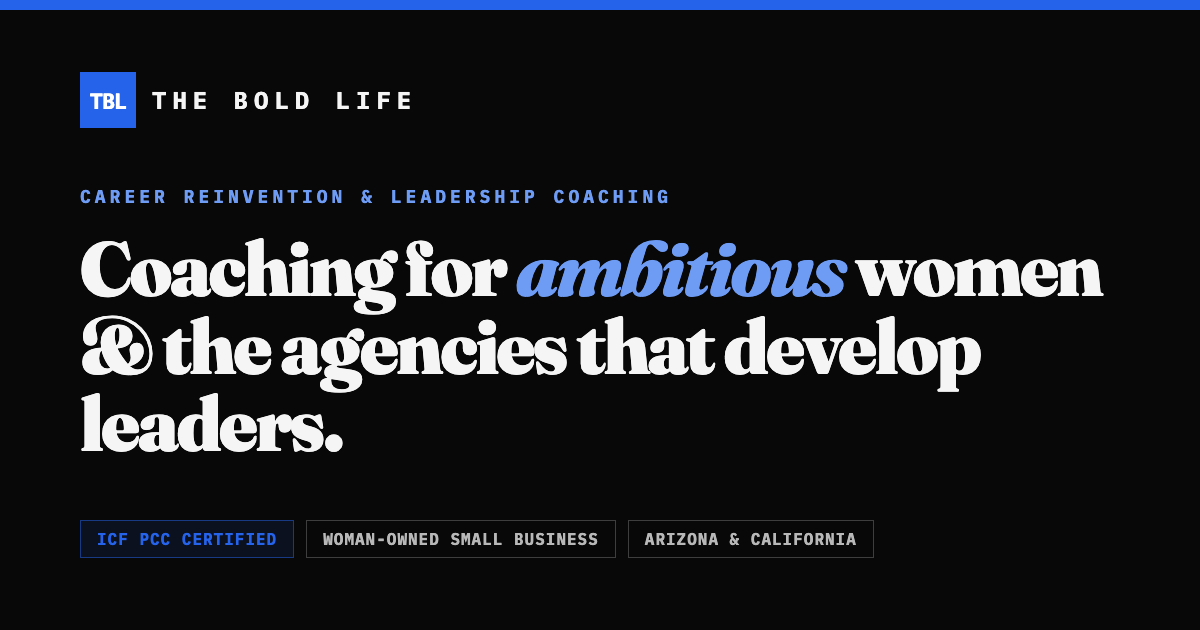
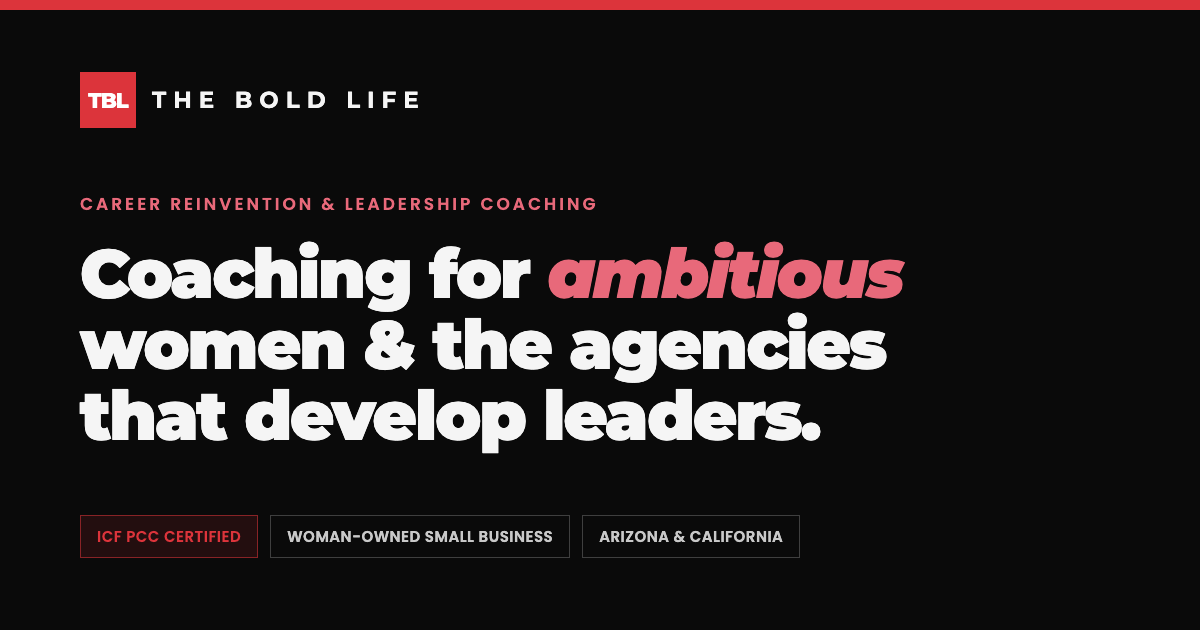
Re-skin to The Bold Life's own brand: burgundy + black, not HumanData blue
The HumanData DS was for the pitch; the product is an extension of The Bold
Life business, so the identity must be hers. Keep the DS v4 component
architecture as structural scaffold only, and add a brand-token layer that
overrides every colour and font:

- Accent #2563EB (blue) -> #DC343B (her brand red / "burgundy"); hover #B7272E.
- Fonts Fraunces/IBM Plex Sans -> Montserrat (display) + Poppins (body),
  matching theboldlife.coach. IBM Plex Mono kept for small technical labels.
- Section data-tint family re-hued to warm burgundy -> wine -> rose; no blue,
  green, or cyan.
- theme-color, favicon, and the 1200x630 og card regenerated in red/black.

Also: make the scroll-reveal robust for deep links (e.g. /#government) and
web-font reflow — re-sweep on load, on hashchange, and after settle — so a
section linked to directly no longer stays hidden until the user scrolls.

Brand source of truth: theboldlife.coach (#DC343B, #1A1A1A, Poppins,
Montserrat).

diff --git a/index.html b/index.html
@@ -23,10 +23,10 @@
 <meta name="twitter:image" content="https://theboldlifecoaching.com/img/og.png">
 <link rel="canonical" href="https://theboldlifecoaching.com/">
 <link rel="icon" type="image/svg+xml" href="/img/favicon.svg">
-<meta name="theme-color" content="#2563EB">
+<meta name="theme-color" content="#DC343B">
 <link rel="preconnect" href="https://fonts.googleapis.com">
 <link rel="preconnect" href="https://fonts.gstatic.com" crossorigin>
-<link href="https://fonts.googleapis.com/css2?family=Fraunces:ital,opsz,wght@0,9..144,600;0,9..144,800;0,9..144,900;1,9..144,700;1,9..144,800&family=IBM+Plex+Mono:wght@500;700&family=IBM+Plex+Sans:wght@400;500;600&display=swap" rel="stylesheet">
+<link href="https://fonts.googleapis.com/css2?family=Montserrat:ital,wght@0,600;0,700;0,800;0,900;1,700;1,900&family=Poppins:ital,wght@0,400;0,500;0,600;0,700;1,400;1,500&family=IBM+Plex+Mono:wght@500;700&display=swap" rel="stylesheet">
 <script type="application/ld+json">
 {"@context":"https://schema.org","@type":"ProfessionalService","name":"The Bold Life","description":"Leadership development and executive coaching for government agencies in Arizona and California, and 1:1 career-reinvention coaching for ambitious women. Woman-Owned Small Business led by an ICF Professional Certified Coach.","areaServed":["Arizona","California","United States"],"founder":{"@type":"Person","name":"Jamesyn Snitker","alternateName":"Jamie Snitker","jobTitle":"Executive &amp; Leadership Coach, ICF Professional Certified Coach (PCC)"},"knowsAbout":["Executive coaching","Leadership development","Career transition coaching","Women in leadership","Government workforce development","ICF coaching"],"url":"https://theboldlifecoaching.com/"}
 </script>
@@ -1519,7 +1519,33 @@ svg[data-pos="solo-c"] .vg-a,svg[data-pos="solo-c"] .vg-b{opacity:0;transform:sc
 @media(max-width:620px){.stick-txt{font-size:var(--text-sm);}}
 @media(max-width:460px){.stick-txt span{display:none;}}
 </style><style>
-/* ---- The Bold Life: page layout on top of HumanData DS v4 ---- */
+/* ===================================================================
+   THE BOLD LIFE — brand system. The HumanData DS v4 above is the
+   structural scaffold only; this layer makes the identity entirely hers:
+   burgundy (#DC343B) + black, Poppins + Montserrat, women-led. No blue.
+   These tokens override the DS defaults for this site; the DS block stays
+   verbatim so only the brand layer changes.
+   Source of truth: theboldlife.coach (brand red #DC343B, ink #1A1A1A,
+   Poppins body, Montserrat display). ================================= */
+:root{
+  --font:'Poppins',-apple-system,BlinkMacSystemFont,'Segoe UI',sans-serif;
+  --display:'Montserrat','Poppins',sans-serif;
+  --accent:#DC343B;--accent-hover:#B7272E;
+  --accent-lt:rgba(220,52,59,.15);--accent-dim:rgba(220,52,59,.08);--accent-text:#fff;
+  --bd-focus:rgba(220,52,59,.6);
+}
+@media (prefers-color-scheme: light){
+  :root:not([data-theme="dark"]){--bd-focus:rgba(220,52,59,.5);}
+}
+:root[data-theme="light"]{--bd-focus:rgba(220,52,59,.5);}
+/* Section tints — a warm burgundy -> wine -> rose family. Deliberately
+   no blue, green or cyan (those report state in the DS). */
+[data-tint="a"]{--tint:#DC343B;--tint-dim:rgba(220,52,59,.07);}
+[data-tint="b"]{--tint:#A3243A;--tint-dim:rgba(163,36,58,.08);}
+[data-tint="c"]{--tint:#6E1423;--tint-dim:rgba(110,20,35,.08);}
+[data-tint="d"]{--tint:#C04A6E;--tint-dim:rgba(192,74,110,.09);}
+
+/* ---- The Bold Life: page layout on top of the DS scaffold ---- */
 :root{--tbl-max:1100px;}
 .tbl-eyebrow{display:block;margin-bottom:var(--sp4);}
 
@@ -2066,6 +2092,13 @@ svg[data-pos="solo-c"] .vg-a,svg[data-pos="solo-c"] .vg-b{opacity:0;transform:sc
   sweep();
   window.addEventListener('scroll', onScroll, {passive:true});
   window.addEventListener('resize', onScroll, {passive:true});
+  /* Deep links (e.g. /#government) and web-font reflow move the page after the
+     first sweep, so re-sweep once everything has settled and whenever the hash
+     changes — otherwise a section jumped straight to can stay hidden. */
+  window.addEventListener('load', onScroll);
+  window.addEventListener('hashchange', function(){ setTimeout(sweep, 50); });
+  setTimeout(sweep, 120);
+  setTimeout(sweep, 400);
 })();
 </script>
 </body>

diff --git a/README.md b/README.md
@@ -4,8 +4,12 @@ A single-page platform for **The Bold Life** — *Career Reinvention & Leadershi
 Coaching for Ambitious Women*, founded by **Jamesyn (Jamie) Snitker**, ICF
 Professional Certified Coach (PCC). Woman-Owned Small Business.
 
-Built on the **HumanData Design System v4** (same tokens, type, and components as
-`humandata.id/ds`), under The Bold Life's own brand. Mobile-first and accessible.
+**The Bold Life's own brand system** — burgundy (`#DC343B`) + black, Poppins (body)
+and Montserrat (display), square corners, women-led — matching her live site
+`theboldlife.coach`. The HumanData DS v4 component architecture is used only as the
+structural scaffold (grids, cards, rules); a brand-token layer at the top of the page
+`<style>` overrides every colour and font so the identity is entirely hers. No blue.
+Mobile-first and accessible.
 
 - **Live (GitHub Pages):** set after first deploy — see *Deploy* below.
 - **Intended domain:** `theboldlifecoaching.com` (not yet registered).
@@ -65,9 +69,17 @@ the footer — plus the mailto in the nav) so inquiries land before the domain i
 
 ## Design system
 
-The embedded stylesheet is HumanData DS v4 verbatim (source of truth:
-`humandata.id/ds`). Keep brand changes in the small page-specific `<style>` block at
-the top of `index.html`, not in the DS block, so the system stays one source.
+Two layers, in order, inside `index.html`:
+
+1. **DS v4 scaffold** — the HumanData DS v4 stylesheet, embedded verbatim, used only
+   for structure (grid/card/rule components, spacing, responsive rules).
+2. **The Bold Life brand layer** — the first block of the page `<style>` overrides the
+   DS colour and font tokens: `--accent:#DC343B` (brand red), Poppins + Montserrat,
+   and a warm burgundy→wine→rose `data-tint` family. **No HumanData blue.**
+
+Keep brand changes in that brand layer, never in the DS block, so the scaffold stays a
+clean, swappable base. Source of truth for the brand itself is `theboldlife.coach`
+(red `#DC343B`, ink `#1A1A1A`, Poppins body, Montserrat display).
 
 ## Honesty note (important)
 
